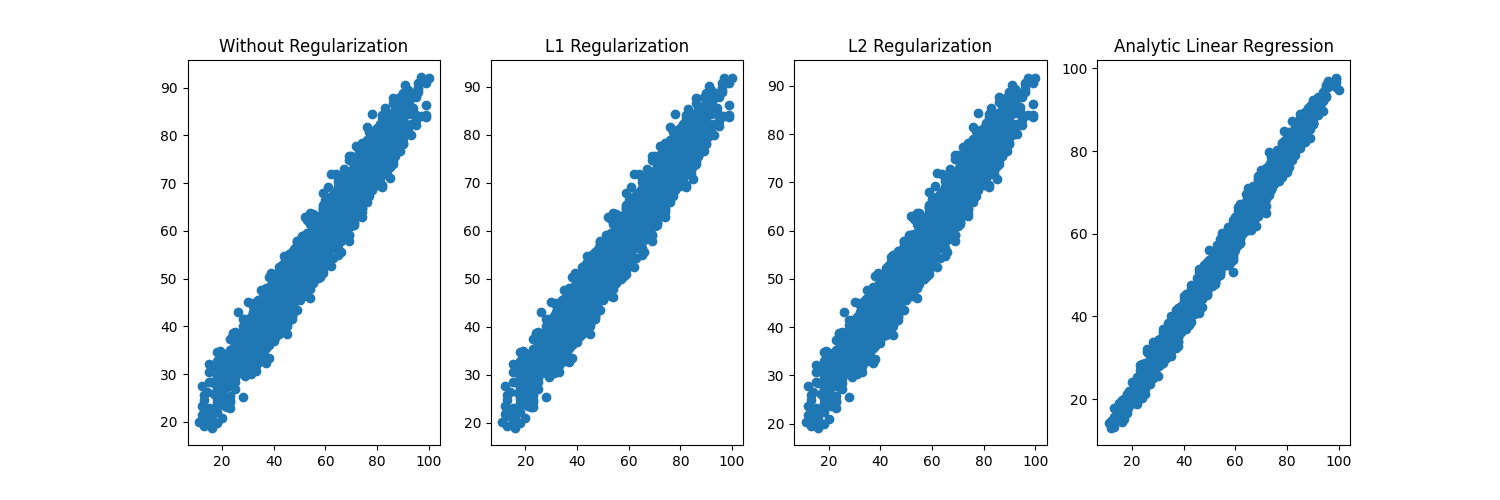
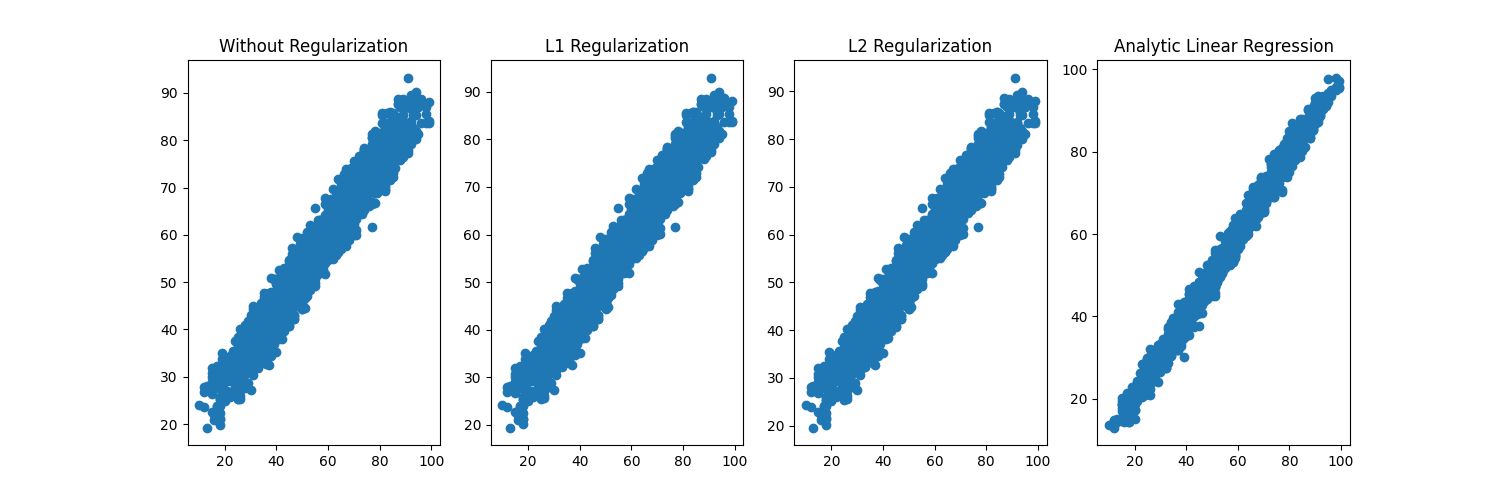
Add n_steps parameter to LinearRegression constructor

diff --git a/lecture_7.py b/lecture_7.py
@@ -5,13 +5,14 @@ from sklearn.metrics import mean_squared_error
 import matplotlib.pyplot as plt
 
 class LinearRegression:
-    def __init__(self, X, y, regularization=None, alpha=0.1, lr=3e-4):
+    def __init__(self, X, y, regularization=None, alpha=0.1, lr=3e-4, n_steps=1000):
         self.X = np.hstack((np.ones((X.shape[0],1)), X))
         self.y = y
         
         self.regularization = regularization
         self.alpha = alpha
         self.lr = lr
+        self.n_steps = n_steps
     
     def _compute_loss(self, X, y):
         m = y.shape[0]
@@ -38,6 +39,16 @@ class LinearRegression:
         
         loss = 1/(2*m) * np.sum(np.square(h-y)) + self.alpha * np.sum(np.square(self.weights))
             
+        return loss
+    
+    # Compute cost function
+    def compute_loss(self, X, y):
+        if self.regularization == 'l1':
+            loss = self._compute_loss_l1(X, y)
+        elif self.regularization == 'l2':
+            loss = self._compute_loss_l2(X, y)
+        else:
+            loss = self._compute_loss(X, y)
         return loss
     
     def _compute_grad(self, X, y):
@@ -67,15 +78,6 @@ class LinearRegression:
         
         return grad
     
-    # Compute cost function
-    def compute_loss(self, X, y):
-        if self.regularization == 'l1':
-            loss = self._compute_loss_l1(X, y)
-        elif self.regularization == 'l2':
-            loss = self._compute_loss_l2(X, y)
-        else:
-            loss = self._compute_loss(X, y)
-        return loss
     
     # Compute gradient
     def compute_gradient(self, X, y):
@@ -92,12 +94,12 @@ class LinearRegression:
         self.weights = np.random.rand(self.X.shape[1])
         self.bias = self.weights[0]
         
-        for i in range(10000):
+        for i in range(self.n_steps):
             grad = self.compute_gradient(self.X, self.y)
             
             self.weights -= self.lr * grad
             
-            if i == len(range(10000)) - 1:
+            if i == len(range(self.n_steps)) - 1:
                 loss = self.compute_loss(self.X, self.y)
                 print(f'Loss at iteration {i}: {loss}')
                 print(f'Weights: {self.weights}')
@@ -137,9 +139,9 @@ def main():
     
     X_tr, X_val, y_tr, y_val = train_test_split(X, y, test_size=0.2)
 
-    model_lr = LinearRegression(X_tr, y_tr)
-    model_lr_l1 = LinearRegression(X_tr, y_tr, regularization='l1', alpha=0.1)
-    model_lr_l2 = LinearRegression(X_tr, y_tr, regularization='l2', alpha=0.1)
+    model_lr = LinearRegression(X_tr, y_tr, lr=3e-4, n_steps=10000)
+    model_lr_l1 = LinearRegression(X_tr, y_tr, regularization='l1', alpha=0.1, lr=3e-4, n_steps=10000)
+    model_lr_l2 = LinearRegression(X_tr, y_tr, regularization='l2', alpha=0.1, lr=3e-4, n_steps=10000)
     model_lr_a = LinearRegression(X_tr, y_tr)
     
     print("Fitting model without regularization:")
